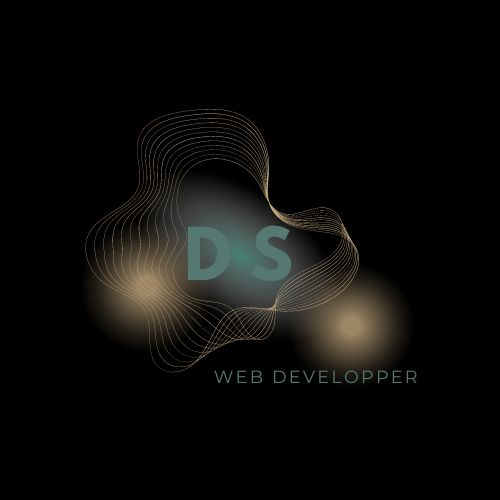
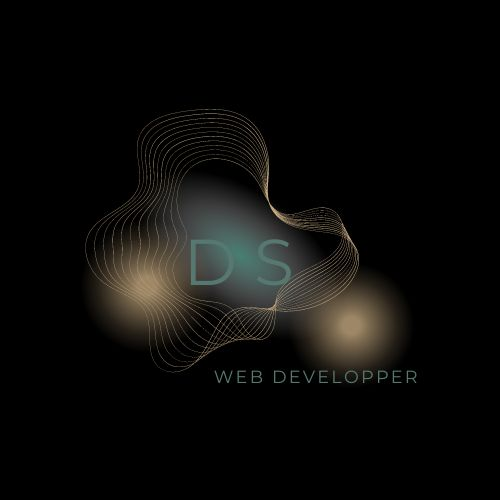
add style

Changed region(s): [[0.36, 0.45, 0.48, 0.57], [0.51, 0.45, 0.6, 0.57]]

diff --git a/src/App.vue b/src/App.vue
@@ -8,10 +8,10 @@ import Foot from './components/Foot.vue';
 
 <template>
   <header>
-    <img src="@/assets/images/D S.jpg" alt="logo" class="logo" width="250" height="250" />
+    <img src="@/assets/images/D S.jpg" alt="logo" class="logo" width="500" height="500" />
 
     <div class="wrapper">
-      <HelloWorld msg="Hello, I am David Saumet" />
+      <HelloWorld msg="David Saumet" />
 
       <nav>
         <RouterLink to="/">Acceuil</RouterLink>
@@ -19,6 +19,7 @@ import Foot from './components/Foot.vue';
         <RouterLink to="/projects">Projets</RouterLink>
       </nav>
     </div>
+    
   </header>
 
   <RouterView />
@@ -42,10 +43,14 @@ nav {
   font-size: 12px;
   text-align: center;
   margin-top: 2rem;
+  color: #c5a97f;
+
 }
 
 nav a.router-link-exact-active {
-  color: var(--color-text);
+
+  text-decoration: underline;
+
 }
 
 nav a.router-link-exact-active:hover {
@@ -56,6 +61,7 @@ nav a {
   display: inline-block;
   padding: 0 1rem;
   border-left: 1px solid var(--color-border);
+  color: #c5a97f ;
 }
 
 nav a:first-of-type {

diff --git a/src/components/Foot.vue b/src/components/Foot.vue
@@ -5,7 +5,7 @@
       <a href="https://linkedin.com" target="_blank"><font-awesome-icon icon="fa-brands fa-linkedin" /></a>
       <a href="https://twitter.com" target="_blank"><font-awesome-icon icon="fa-brands fa-twitter" /></a>
       <a href="https://github.com" target="_blank"><font-awesome-icon icon="fa-brands fa-github" /></a>
-      
+      <div class="spacer"></div>
       </div>
       <!-- Date de dernière mise à jour -->
       <p>Dernière mise à jour : {{ lastUpdated }}</p>
@@ -30,8 +30,8 @@
   
   <style scoped>
 footer{
-    background-color: #782221;
-    color: white;
+    background-color: black;
+    color: #c5a97f;
     height: 100px;
     text-align: center;
     padding-top: 20px;
@@ -48,9 +48,13 @@ footer{
 }
 .fa-square-github{
     background-color: white;
-    color:#782221;
+    color:black;
+    object-fit: contain;
 }
 footer div:hover{
     opacity: 0.8;
 }
+.spacer {
+    height: 2rem; /* Hauteur de l'espace de séparation */
+  }
   </style>

diff --git a/src/components/icons/IconEcosystem.vue b/src/components/icons/IconEcosystem.vue
@@ -1,5 +1,7 @@
 <template>
-  <svg xmlns="http://www.w3.org/2000/svg" width="18" height="20" fill="currentColor">
-    <text x="0" y="15" font-family="Arial" font-size="16">En</text>
+  <svg xmlns="http://www.w3.org/2000/svg" width="25" height="25" fill="currentColor">
+    <rect width="100%" height="100%" fill="black"/>
+    <text x="0" y="15" font-family="Arial" font-size="16" fill="#c5a97f">En</text>
   </svg>
 </template>
+

diff --git a/public/index.html b/public/index.html
@@ -4,7 +4,10 @@
     <meta charset="UTF-8">
     <meta name="viewport" content="width=device-width, initial-scale=1.0">
     <title>Document</title>
-    
+    <link href="https://fonts.googleapis.com/css2?family=Lemon+Tuesday&display=swap" rel="stylesheet">
+    <link href="https://fonts.googleapis.com/css2?family=Montserrat:wght@400;700&display=swap" rel="stylesheet">
+
+
     
 <body>
   <div id="app"></div>  

diff --git a/src/components/WelcomeItem.vue b/src/components/WelcomeItem.vue
@@ -37,7 +37,7 @@ h3 {
   font-size: 1.2rem;
   font-weight: 500;
   margin-bottom: 0.4rem;
-  color: var(--color-heading);
+  color: #76d4c1;
 }
 
 @media (min-width: 1024px) {
@@ -51,7 +51,7 @@ h3 {
     left: -26px;
     position: absolute;
     border: 1px solid var(--color-border);
-    background: var(--color-background);
+    background: black;
     border-radius: 8px;
     width: 50px;
     height: 50px;

diff --git a/src/components/icons/IconTooling.vue b/src/components/icons/IconTooling.vue
@@ -6,11 +6,11 @@
     aria-hidden="true"
     role="img"
     class="iconify iconify--mdi"
-    width="24"
-    height="24"
+    width="25"
+    height="25"
     preserveAspectRatio="xMidYMid meet"
     viewBox="0 0 24 24"
   >
-  <text x="0" y="15" font-family="Arial" font-size="16">Fr</text>
+  <text x="0" y="15" font-family="Arial" font-size="16" fill="#c5a97f">Fr</text>
   </svg>
 </template>

diff --git a/src/assets/main.css b/src/assets/main.css
@@ -1,5 +1,11 @@
 @import './base.css';
 
+body, html {
+  font-family: 'Montserrat', sans-serif;
+  background-color: black;
+  color: #c5a97f;
+}
+
 #app {
   max-width: 1280px;
   margin: 0 auto;
@@ -10,7 +16,7 @@
 a,
 .green {
   text-decoration: none;
-  color: hsla(160, 100%, 37%, 1);
+  color: #76d4c1;
   transition: 0.4s;
   padding: 3px;
 }

diff --git a/src/components/HelloWorld.vue b/src/components/HelloWorld.vue
@@ -11,7 +11,7 @@ defineProps({
   <div class="greetings">
     <h1 class="green">{{ msg }}</h1>
     <h3>
-     ! Web Developper Freelance Fullstack !
+      Web Developper Fullstack 
     </h3>
   </div>
 </template>
@@ -26,6 +26,7 @@ h1 {
 
 h3 {
   font-size: 1.2rem;
+  
 }
 
 .greetings h1,

diff --git a/src/views/MonCv.vue b/src/views/MonCv.vue
@@ -33,6 +33,9 @@ b {
 .spacer {
     height: 5rem; /* Hauteur de l'espace de séparation */
   }
+  .close {
+background-color: #557870;
+  } 
 </style>
 
 

diff --git a/src/views/CahierCharges.vue b/src/views/CahierCharges.vue
@@ -34,4 +34,7 @@ b {
 .spacer {
     height: 5rem; /* Hauteur de l'espace de séparation */
   }
+  .close {
+background-color: #557870;
+  } 
 </style>

diff --git a/src/views/Docu.vue b/src/views/Docu.vue
@@ -33,4 +33,7 @@ b {
 .spacer {
     height: 5rem; /* Hauteur de l'espace de séparation */
   }
+  .close {
+background-color: #557870;
+  } 
 </style>
